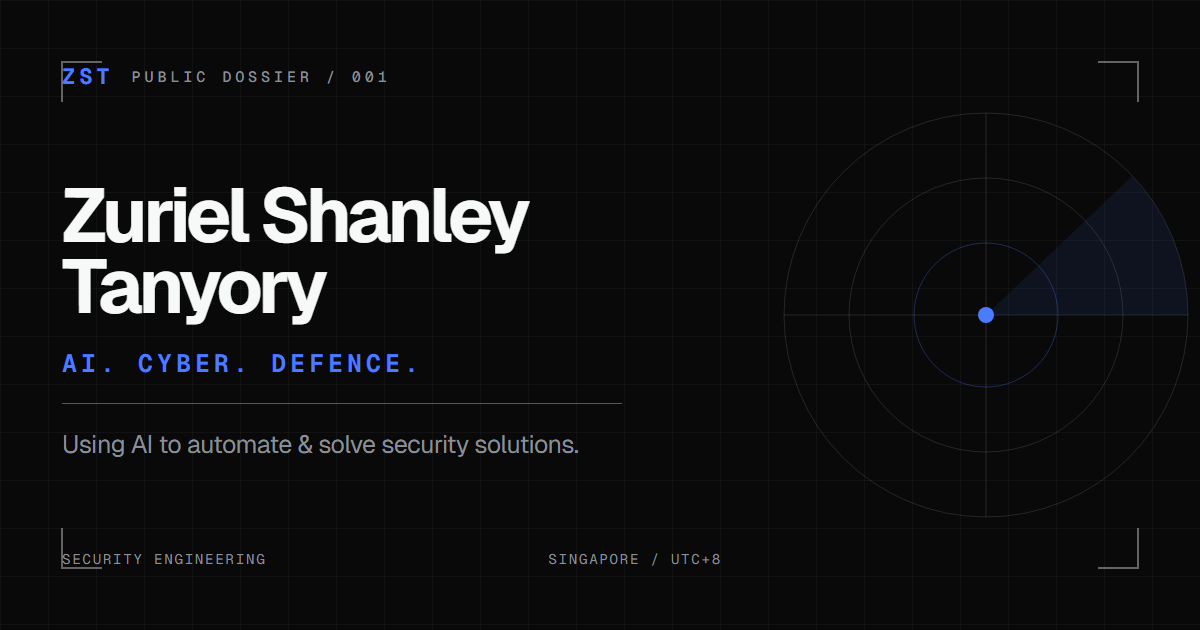
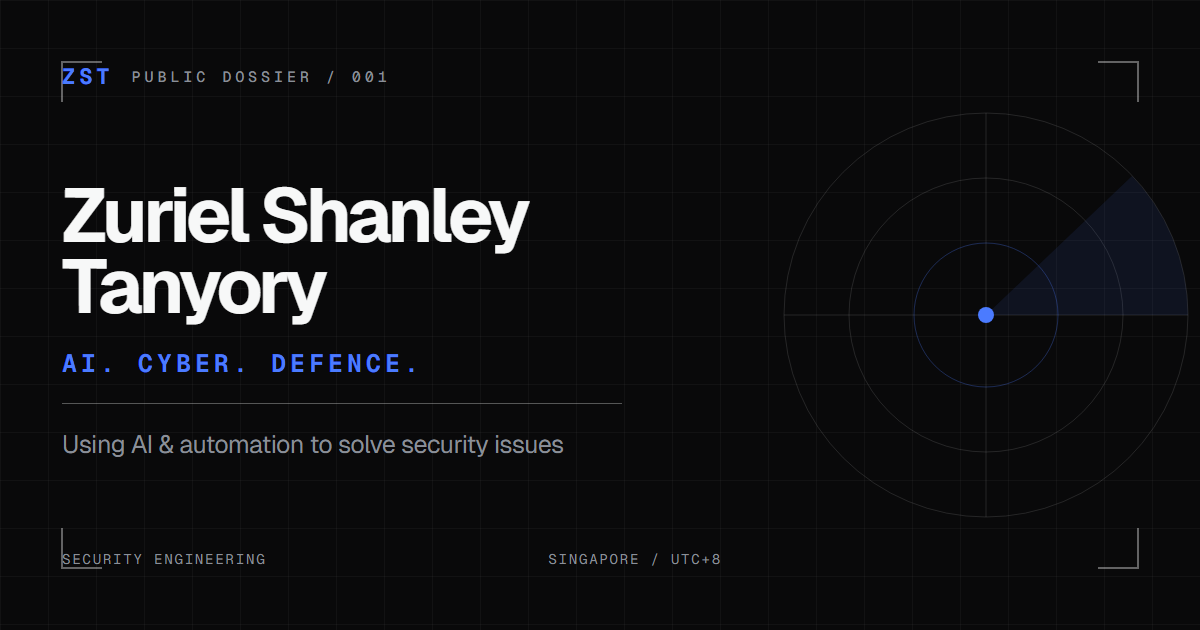
feat(identity): refresh AI security positioning

Changed region(s): [[0.1233, 0.6937, 0.4933, 0.7238]]

diff --git a/workers/chat-api/src/prompt.ts b/workers/chat-api/src/prompt.ts
@@ -128,7 +128,7 @@ function renderIdentity(source: Profile): string {
   if (undergraduateRole === undefined) throw new Error('Missing identity undergraduate role');
   const linkedIn = requiredByPlatform(source.identity.socials, 'LinkedIn');
 
-  return `identity: ${source.identity.name}. ${currentRole.title} at ${currentRole.org} (${currentRole.period}). ${undergraduateRole.replace('Undergraduate', 'undergraduate')} at ${organizationInitials(education.org)} until ${endDate(education.period)}. ${source.identity.location.city} (${source.identity.location.timezone}). Email ${source.identity.email}. GitHub ${webLabel(source.identity.github.url)}. LinkedIn ${webLabel(linkedIn.url).replace(/^www\./, '')}. Tagline: ${source.identity.tagline} ${source.identity.bio_hook.replace(/^I started/, 'Started')}`;
+  return `identity: ${source.identity.name}. ${currentRole.title} at ${currentRole.org} (${currentRole.period}). ${undergraduateRole.replace('Undergraduate', 'undergraduate')} at ${organizationInitials(education.org)} until ${endDate(education.period)}. ${source.identity.location.city} (${source.identity.location.timezone}). Email ${source.identity.email}. GitHub ${webLabel(source.identity.github.url)}. LinkedIn ${webLabel(linkedIn.url).replace(/^www\./, '')}. Tagline: ${source.identity.tagline}`;
 }
 
 function renderMetrics(source: Profile): string {

diff --git a/workers/chat-api/test/prompt-ai.test.ts b/workers/chat-api/test/prompt-ai.test.ts
@@ -73,7 +73,9 @@ describe('grounded prompt', () => {
     const prompt = buildSystemPrompt();
 
     expect(prompt).toContain('Forward Deployed AI & Automation Security Engineer at Singtel');
-    expect(prompt).toContain('Tagline: Using AI to automate & solve security solutions.');
+    expect(prompt).toContain('Tagline: Using AI & automation to solve security issues');
+    expect(prompt).not.toContain('started coding at 14');
+    expect(prompt).not.toContain('Started coding at 14');
     expect(prompt).toContain(
       "metrics: 40+ deep learning models trained for security and vision tasks; 200+ firewalls fed by one automated IOC pipeline; Up to 90% threat detection uplift from AI-assisted SOC workflows; 100% of this site's assistant grounded in published profile data.",
     );
@@ -332,7 +334,7 @@ describe('grounded prompt', () => {
     });
     const messages = buildChatMessages(parsed.message, parsed.history);
 
-    expect(serializedPromptByteLength(messages)).toBe(16_253);
+    expect(serializedPromptByteLength(messages)).toBe(16_229);
     expect(serializedPromptByteLength(messages)).toBeLessThanOrEqual(
       MAX_SERIALIZED_PROMPT_BYTES,
     );

diff --git a/lib/identity-header.test.ts b/lib/identity-header.test.ts
@@ -90,6 +90,16 @@ describe('identity header', () => {
     );
   });
 
+  it('renders the approved tagline without the retired coding-at-14 blurb slot', () => {
+    const markup = renderToStaticMarkup(
+      createElement(IdentityHeader, { profile }),
+    );
+
+    expect(markup).toContain('Using AI &amp; automation to solve security issues');
+    expect(markup).not.toContain('I started coding at 14.');
+    expect(markup).not.toContain('dossier-body mt-5 text-text-2');
+  });
+
   it('shimmers every rotating role without animating the identity section', () => {
     const markup = renderToStaticMarkup(
       createElement(IdentityHeader, { profile }),

diff --git a/content/profile.test.ts b/content/profile.test.ts
@@ -29,7 +29,8 @@ describe('content/profile.json', () => {
   });
 
   it('uses the owner-approved AI and security identity framing', () => {
-    expect(profile.identity.tagline).toBe('Using AI to automate & solve security solutions.');
+    expect(profile.identity.tagline).toBe('Using AI & automation to solve security issues');
+    expect(profile.identity).not.toHaveProperty('bio_hook');
     expect(profile.identity.metrics).toEqual([
       { value: '40+', label: 'deep learning models trained for security and vision tasks' },
       { value: '200+', label: 'firewalls fed by one automated IOC pipeline' },

diff --git a/components/sections/identity-header.tsx b/components/sections/identity-header.tsx
@@ -41,7 +41,6 @@ export function IdentityHeader({ profile }: { profile: Profile }) {
             <p className="mt-5 font-mono text-sm uppercase tracking-[0.16em] text-text-3">
               {identity.tagline}
             </p>
-            <p className="dossier-body mt-5 text-text-2">{identity.bio_hook}</p>
             <p className="mt-5 min-h-7 text-lg text-text-1">
               <TextFlip>
                 {identity.roles.map((role) => (

diff --git a/remotion/src/og-card.tsx b/remotion/src/og-card.tsx
@@ -35,7 +35,7 @@ export function OgCard() {
           </p>
           <div style={{ background: palette.ink, height: 1, opacity: 0.32, width: 560 }} />
           <p style={{ color: palette.muted, fontSize: 25, letterSpacing: '-0.02em', lineHeight: 1.3, margin: 0 }}>
-            Using AI to automate &amp; solve security solutions.
+            Using AI &amp; automation to solve security issues
           </p>
         </div>
 

diff --git a/content/schema.ts b/content/schema.ts
@@ -112,7 +112,6 @@ const IdentitySchema = z
     roles: z.array(z.string().min(1)).min(2),
     employer: z.string().min(1),
     tagline: z.string().min(1),
-    bio_hook: z.string().min(1),
     metrics: z.array(MetricSchema).length(4),
     location: z
       .object({

diff --git a/content/chat-projection.md b/content/chat-projection.md
@@ -15,7 +15,7 @@ Roles already stated under identity or work_cases are not restated under timelin
 
 ```
 <<PROFILE v2026-08-30
-identity: Zuriel Shanley Tanyory. Forward Deployed AI & Automation Security Engineer at Singtel (Aug 2026 to present). Information Security undergraduate at NUS until May 2028. Singapore (UTC+8). Email zurielst@u.nus.edu. GitHub github.com/Leiruz. LinkedIn linkedin.com/in/zuriel-shanley. Tagline: Using AI to automate & solve security solutions. Started coding at 14.
+identity: Zuriel Shanley Tanyory. Forward Deployed AI & Automation Security Engineer at Singtel (Aug 2026 to present). Information Security undergraduate at NUS until May 2028. Singapore (UTC+8). Email zurielst@u.nus.edu. GitHub github.com/Leiruz. LinkedIn linkedin.com/in/zuriel-shanley. Tagline: Using AI & automation to solve security issues
 metrics: 40+ deep learning models trained for security and vision tasks; 200+ firewalls fed by one automated IOC pipeline; Up to 90% threat detection uplift from AI-assisted SOC workflows; 100% of this site's assistant grounded in published profile data.
 act_security: ethical hacking (Cyber Kill Chain, Blueborne mobile exploit lab); web pentesting (OWASP Top 10, ZAP, Burp, DVWA, ASP.NET); reverse engineering (Ghidra, IDA, x86; wrote then reverse engineered his own obfuscated Python malware); forensics (EnCase, Autopsy, FTK Imager); CentOS hardening (OSSEC, firewalld, HIPS, ACLs); network infra (Cisco, Palo Alto NGFW, FortiGate, VPN tunnels); runs Suricata, Snort, Zeek; ASP.NET Razor Pages since Jun 2020; web dev and cryptography since Oct 2019.
 act_ai_automation: Python since Dec 2016 (Twilio, TensorFlow, Keras, Pandas, smtplib, sockets); deep learning since Apr 2020 (RNN, CNN, NLP); 40+ CNN models to roughly 70% accuracy on food classification and emoji prediction; RNN autocorrect judged on word error rate; Akamai WAF API reporting automation at Singtel; OOP (C#) and functional programming.
